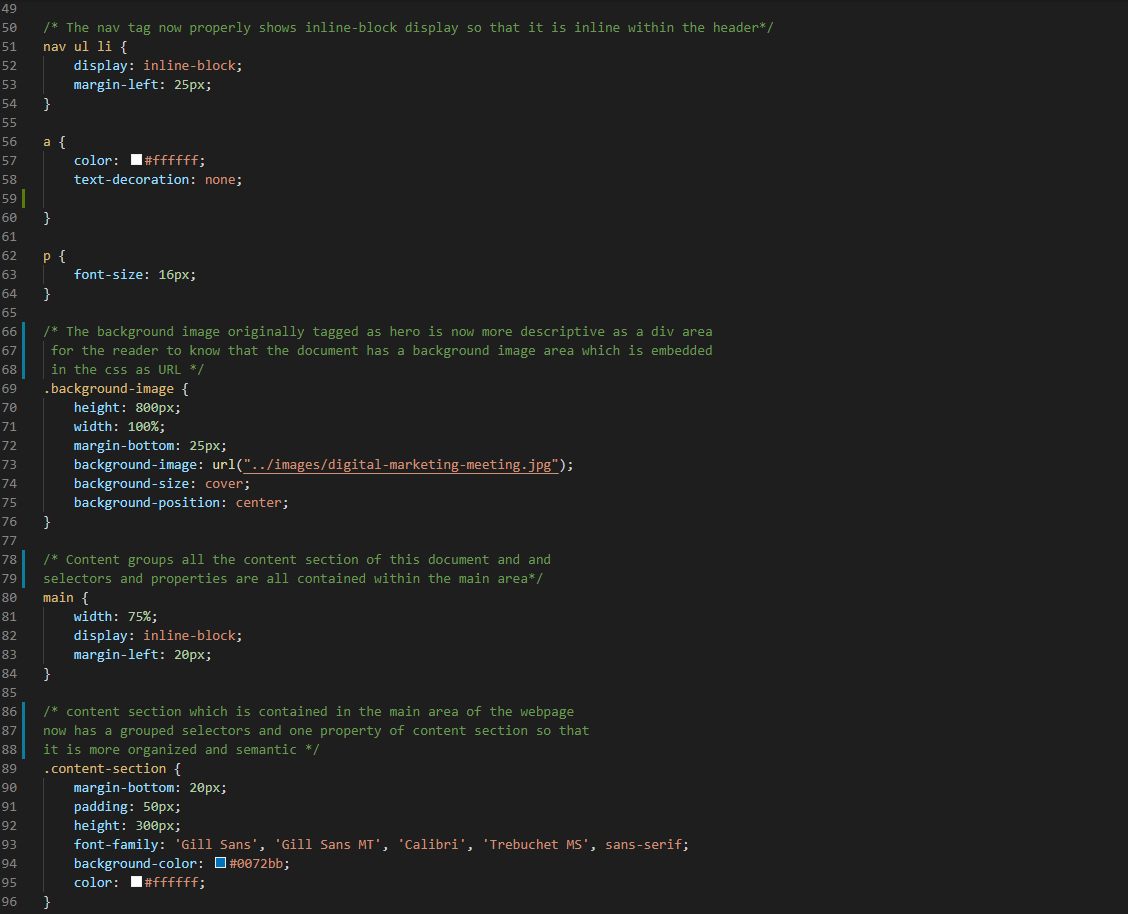
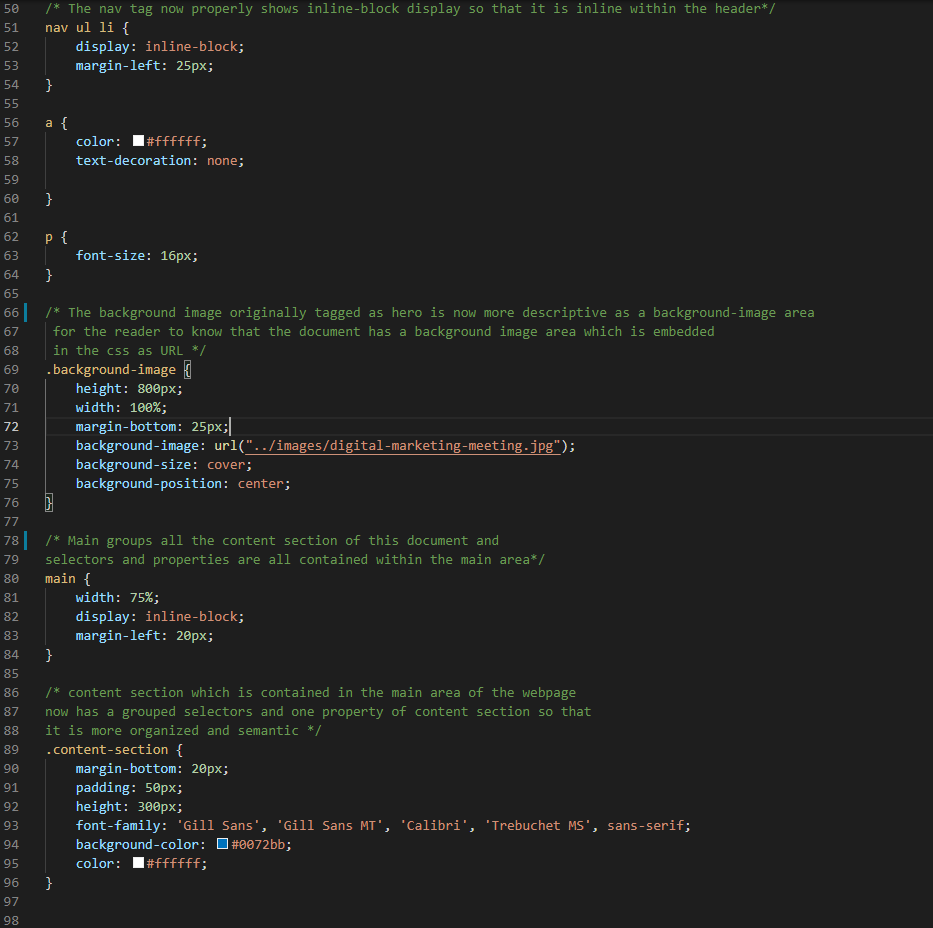
commiting on main

diff --git a/assets/css/style.css b/assets/css/style.css
@@ -9,7 +9,7 @@ body {
     background-color: #d9dcd6;
 }
  
-/* The header now includes the links within the document so that when
+/* The header includes the links within the document so that when
  the assistive reader readers the document it begins with "header" and reads the links for the user
 padding will all be 20px and follows the font family of 'Trebuchet MS', 'Lucida Sans Unicode',
  'Lucida Grande', 'Lucida Sans', Arial, sans-serif */
@@ -20,7 +20,7 @@ header {
     color: #ffffff;
 }
 
-/* The header h1 now has inline-block display to fall under the header tag in
+/* The header h1 has inline-block display to fall under the header tag in
  an inline block display and font size of 48px*/
 header h1 {
     display: inline-block;
@@ -31,9 +31,9 @@ header h1 .seo {
     color: #d9dcd6;
 }
 
-/* The nav tag now properly navigates and tells the assistive reader where the links go within 
+/* The nav tag navigates and tells the assistive reader where the links go within 
 the webpage and is grouped within the header of the document and also groups all the links together in 
-a nav functionality and floats to the right of the page within the header*/
+a nav functionality and floats to the right of the page within the header will float right*/
 nav {
     padding-top: 15px;
     margin-right: 20px;
@@ -63,7 +63,7 @@ p {
     font-size: 16px;
 }
 
-/* The background image originally tagged as hero is now more descriptive as a div area
+/* The background image originally tagged as hero is now more descriptive as a background-image area
  for the reader to know that the document has a background image area which is embedded 
  in the css as URL */
 .background-image {
@@ -75,7 +75,7 @@ p {
     background-position: center;
 }
 
-/* Content groups all the content section of this document and and 
+/* Main groups all the content section of this document and 
 selectors and properties are all contained within the main area*/
 main {
     width: 75%;
